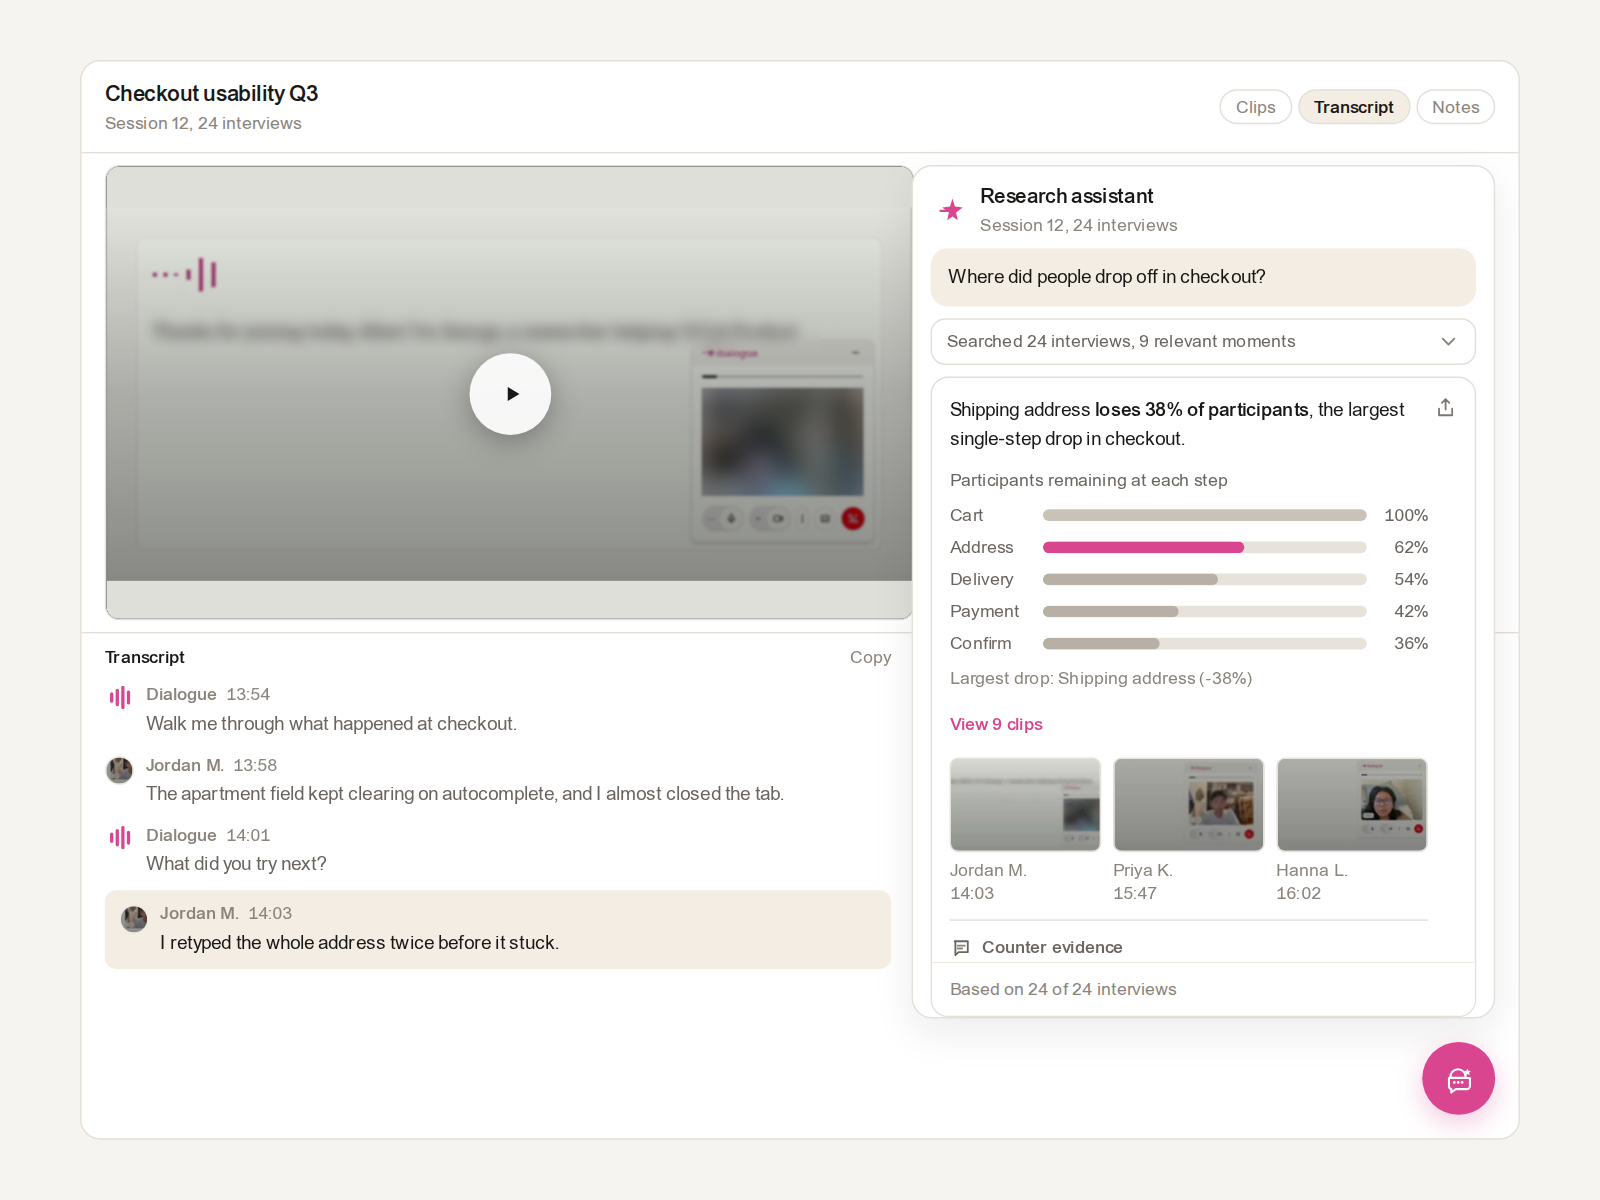
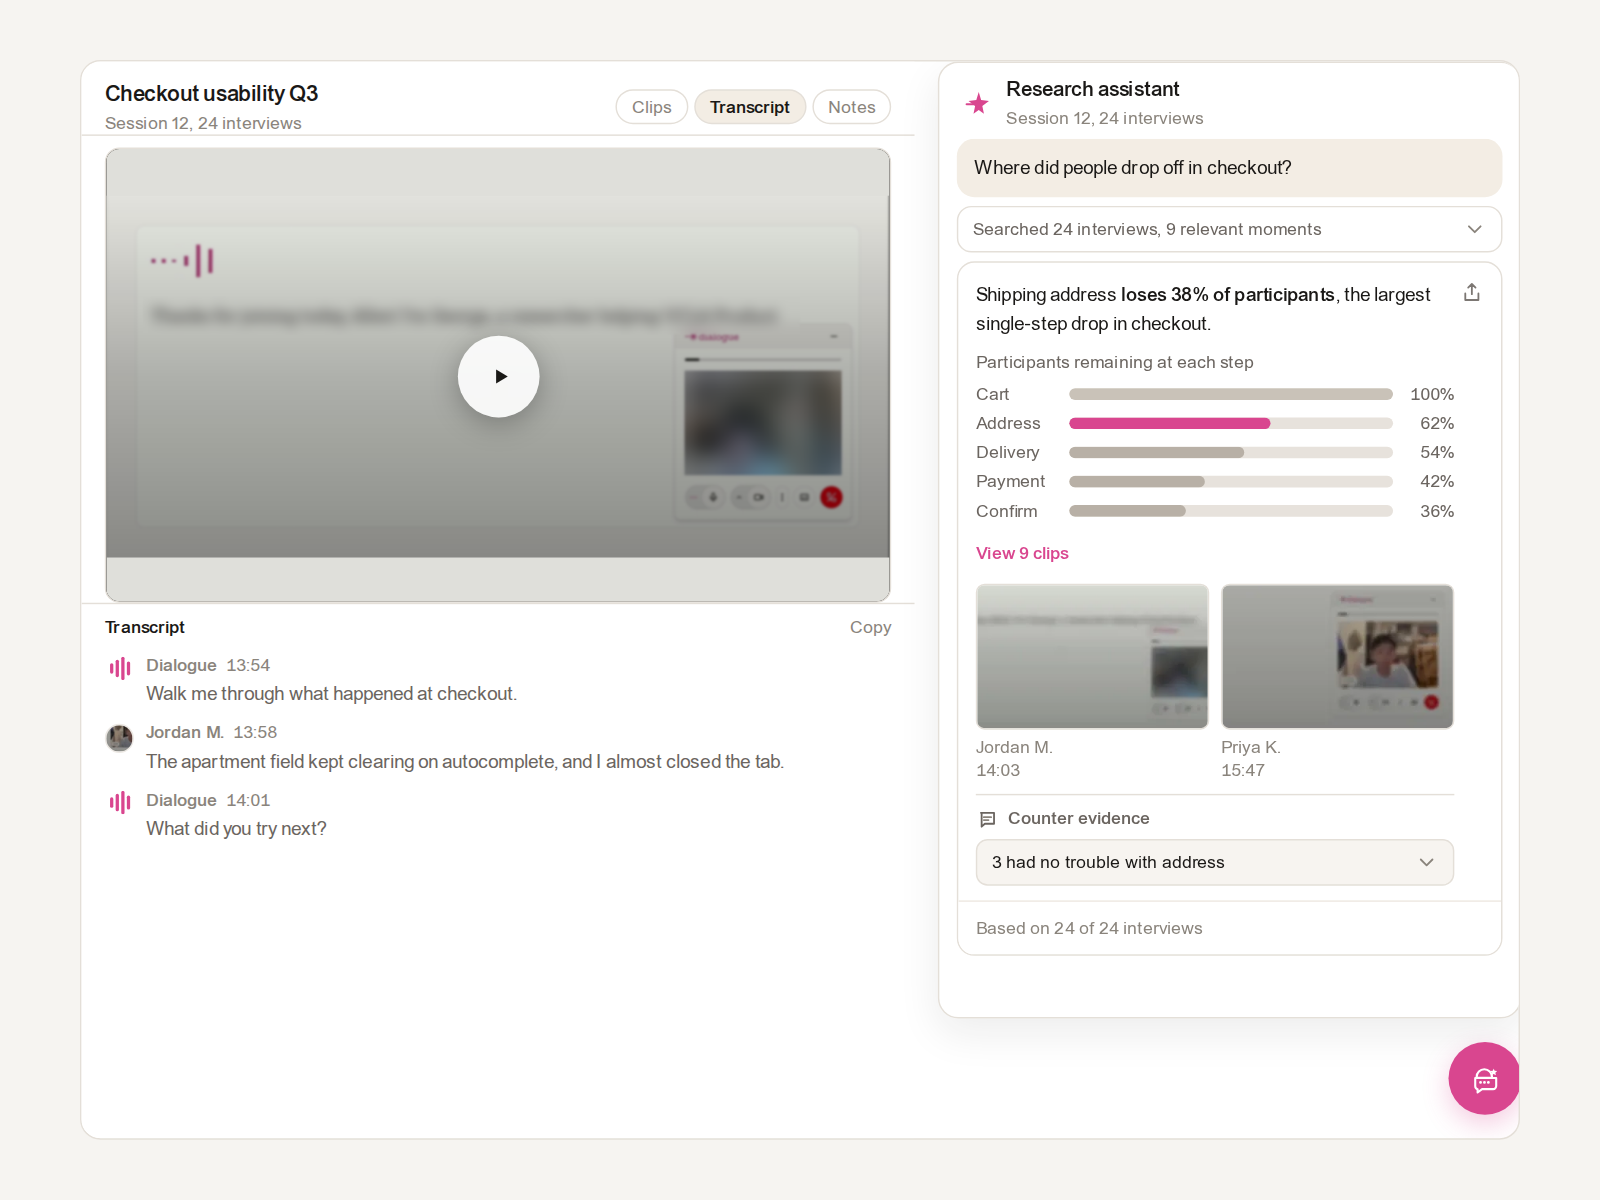
Fix floating placement: study width, panel gap, full evidence card
- Constrain floating study chrome to 571px (555px player + 16px pad); 16px gap before 400px panel flush-right
- Remove fillHeight clipping; tighten floating evidence spacing (2 clips, tight funnel)
- Match docked assistant padding; panel shadow on outer wrapper
- Trim floating transcript to 3 lines; capture script --only flag
- Re-capture section-6 only (section-6b unchanged)

Changed region(s): [[0.0625, 0.0617, 0.9375, 0.8325], [0.875, 0.8633, 0.9688, 0.9558]]

diff --git a/components/dialogue/graphics/EvidenceAnswerCard.tsx b/components/dialogue/graphics/EvidenceAnswerCard.tsx
@@ -18,13 +18,14 @@ const PAD = PLACEMENT_GRID_PAD_X - 4;
 
 export function EvidenceAnswerCard({
   compact = false,
-  fillHeight = false,
+  floating = false,
 }: {
   compact?: boolean;
-  fillHeight?: boolean;
+  floating?: boolean;
 }) {
   const inset = compact ? PLACEMENT_GRID_PAD_X - 4 : PAD;
   const copyIconInset = inset;
+  const blockGap = floating ? PLACEMENT_SPACE_1 : PLACEMENT_SPACE_1 + 2;
   return (
     <div
       style={{
@@ -34,10 +35,6 @@ export function EvidenceAnswerCard({
         background: DIALOGUE_GRAPHICS_COLORS.surface,
         overflow: "hidden",
         fontFamily: DIALOGUE_GRAPHICS_FONT,
-        height: fillHeight ? "100%" : undefined,
-        display: fillHeight ? "flex" : undefined,
-        flexDirection: fillHeight ? "column" : undefined,
-        minHeight: fillHeight ? 0 : undefined,
       }}
     >
       <div
@@ -61,16 +58,13 @@ export function EvidenceAnswerCard({
       <div
         style={{
           padding: inset,
-          paddingBottom: PLACEMENT_SPACE_1 + 4,
+          paddingBottom: floating ? PLACEMENT_SPACE_1 + 2 : PLACEMENT_SPACE_1 + 4,
           paddingRight: inset + PLACEMENT_ICON_SIZE + 4,
-          flex: fillHeight ? 1 : undefined,
-          minHeight: fillHeight ? 0 : undefined,
-          overflow: fillHeight ? "hidden" : undefined,
         }}
       >
         <p
           style={{
-            margin: `0 0 ${PLACEMENT_SPACE_1 + 2}px`,
+            margin: `0 0 ${blockGap}px`,
             ...placementType.body,
             fontWeight: 400,
             color: DIALOGUE_GRAPHICS_COLORS.ink,
@@ -80,8 +74,8 @@ export function EvidenceAnswerCard({
           <span style={{ fontWeight: 500 }}>loses 38% of participants</span>, the largest single-step
           drop in checkout.
         </p>
-        <CheckoutFunnelChart compact={compact} />
-        <div style={{ marginTop: PLACEMENT_SPACE_1 + 2 }}>
+        <CheckoutFunnelChart compact={compact} tight={floating} />
+        <div style={{ marginTop: blockGap }}>
           <button
             type="button"
             style={{
@@ -97,10 +91,10 @@ export function EvidenceAnswerCard({
             View 9 clips
           </button>
         </div>
-        <div style={{ marginTop: PLACEMENT_SPACE_1 + 2 }}>
-          <ClipThumbnailRow compact={compact} max={3} />
+        <div style={{ marginTop: blockGap }}>
+          <ClipThumbnailRow compact={compact} max={floating ? 2 : 3} />
         </div>
-        <CounterEvidenceSection compact={compact} />
+        <CounterEvidenceSection compact={compact} tight={floating} />
       </div>
       <DerivedEvidenceLabel>Based on 24 of 24 interviews</DerivedEvidenceLabel>
     </div>

diff --git a/components/dialogue/DialoguePlacementScene.tsx b/components/dialogue/DialoguePlacementScene.tsx
@@ -7,6 +7,7 @@ import {
   PLACEMENT_FLOATING_EDGE,
   PLACEMENT_FLOATING_LAUNCHER_SIZE,
   PLACEMENT_FLOATING_LAUNCHER_GAP,
+  PLACEMENT_FLOATING_PANEL_LEFT,
   PLACEMENT_FLOATING_PANEL_WIDTH,
   type PlacementVariant,
 } from "@/lib/caseStudies/dialoguePlacementExport";
@@ -62,11 +63,11 @@ function PlacementFrame({ variant }: { variant: PlacementVariant }) {
         background: DIALOGUE_GRAPHICS_COLORS.surface,
       }}
     >
-      <DialogueStudyHostPage reserveRightForFloatingChat />
+      <DialogueStudyHostPage reserveRightForFloatingChat={true} />
       <div
         style={{
           position: "absolute",
-          right: PLACEMENT_FLOATING_EDGE,
+          left: PLACEMENT_FLOATING_PANEL_LEFT,
           top: PLACEMENT_FLOATING_CHAT_TOP,
           bottom: PLACEMENT_FLOATING_EDGE,
           width: PLACEMENT_FLOATING_PANEL_WIDTH,
@@ -85,14 +86,25 @@ function PlacementFrame({ variant }: { variant: PlacementVariant }) {
             display: "flex",
             flexDirection: "column",
             borderRadius: 14,
-            border: `1px solid ${DIALOGUE_GRAPHICS_COLORS.border}`,
-            background: DIALOGUE_GRAPHICS_COLORS.surface,
             boxShadow: "0 10px 28px rgba(26, 24, 22, 0.08)",
-            overflow: "hidden",
             pointerEvents: "auto",
           }}
         >
-          <DialogueResearchAssistantPanel compact floating />
+          <div
+            style={{
+              flex: 1,
+              minHeight: 0,
+              width: "100%",
+              display: "flex",
+              flexDirection: "column",
+              borderRadius: 14,
+              border: `1px solid ${DIALOGUE_GRAPHICS_COLORS.border}`,
+              background: DIALOGUE_GRAPHICS_COLORS.surface,
+              overflow: "hidden",
+            }}
+          >
+            <DialogueResearchAssistantPanel compact floating />
+          </div>
         </div>
         <div
           style={{

diff --git a/components/dialogue/graphics/CheckoutFunnelChart.tsx b/components/dialogue/graphics/CheckoutFunnelChart.tsx
@@ -10,10 +10,17 @@ const STEPS = [
   { label: "Confirm", pct: 36, tone: "muted" as const },
 ];
 
-export function CheckoutFunnelChart({ compact = false }: { compact?: boolean }) {
+export function CheckoutFunnelChart({
+  compact = false,
+  tight = false,
+}: {
+  compact?: boolean;
+  tight?: boolean;
+}) {
   const labelW = compact ? 56 : 62;
   const barH = 8;
-  const rowGap = compact ? 6 : PLACEMENT_SPACE_1 - 1;
+  const rowGap = tight ? 4 : compact ? 6 : PLACEMENT_SPACE_1 - 1;
+  const captionMargin = tight ? PLACEMENT_SPACE_1 - 2 : PLACEMENT_SPACE_1;
 
   return (
     <div data-placement-crop="funnel" style={{ fontFamily: DIALOGUE_GRAPHICS_FONT }}>
@@ -21,7 +28,7 @@ export function CheckoutFunnelChart({ compact = false }: { compact?: boolean }) 
         style={{
           ...placementType.labelRegular,
           color: DIALOGUE_GRAPHICS_COLORS.inkMuted,
-          marginBottom: PLACEMENT_SPACE_1,
+          marginBottom: captionMargin,
           whiteSpace: "nowrap",
         }}
       >
@@ -78,16 +85,18 @@ export function CheckoutFunnelChart({ compact = false }: { compact?: boolean }) 
           </div>
         ))}
       </div>
-      <div
-        style={{
-          marginTop: PLACEMENT_SPACE_1,
-          ...placementType.labelRegular,
-          color: DIALOGUE_GRAPHICS_COLORS.inkSoft,
-          whiteSpace: "nowrap",
-        }}
-      >
-        Largest drop: Shipping address (-38%)
-      </div>
+      {!tight && (
+        <div
+          style={{
+            marginTop: PLACEMENT_SPACE_1,
+            ...placementType.labelRegular,
+            color: DIALOGUE_GRAPHICS_COLORS.inkSoft,
+            whiteSpace: "nowrap",
+          }}
+        >
+          Largest drop: Shipping address (-38%)
+        </div>
+      )}
     </div>
   );
 }

diff --git a/components/dialogue/DialogueResearchAssistantPanel.tsx b/components/dialogue/DialogueResearchAssistantPanel.tsx
@@ -35,7 +35,9 @@ export function DialogueResearchAssistantPanel({
       <header
         data-placement-crop="assistant-top"
         style={{
-          padding: `${PLACEMENT_SPACE_1 + 4}px ${CARD_PAD}px ${PLACEMENT_SPACE_1}px`,
+          padding: floating
+            ? `${PLACEMENT_SPACE_1 + 2}px ${CARD_PAD}px ${PLACEMENT_SPACE_1 - 2}px`
+            : `${PLACEMENT_SPACE_1 + 4}px ${CARD_PAD}px ${PLACEMENT_SPACE_1}px`,
           flexShrink: 0,
         }}
       >
@@ -56,11 +58,11 @@ export function DialogueResearchAssistantPanel({
         style={{
           flex: fillColumn ? 1 : undefined,
           minHeight: fillColumn ? 0 : undefined,
-          padding: `0 ${CARD_PAD - 4}px ${floating ? 0 : CARD_PAD - 4}px`,
+          padding: `0 ${CARD_PAD - 4}px ${CARD_PAD - 4}px`,
           display: "flex",
           flexDirection: "column",
-          gap: PLACEMENT_SPACE_1,
-          overflow: floating ? "hidden" : fillColumn ? "auto" : "hidden",
+          gap: floating ? PLACEMENT_SPACE_1 - 2 : PLACEMENT_SPACE_1,
+          overflow: fillColumn ? "auto" : "hidden",
         }}
       >
         <div
@@ -95,8 +97,8 @@ export function DialogueResearchAssistantPanel({
           <ChevronDownIcon size={PLACEMENT_ICON_SIZE} />
         </div>
 
-        <div style={{ flex: floating ? 1 : undefined, flexShrink: floating ? undefined : 0, minHeight: floating ? 0 : undefined }}>
-          <EvidenceAnswerCard compact={compact} fillHeight={floating} />
+        <div style={{ flexShrink: 0 }}>
+          <EvidenceAnswerCard compact={compact} floating={floating} />
         </div>
       </div>
     </div>

diff --git a/components/dialogue/DialogueStudyHostPage.tsx b/components/dialogue/DialogueStudyHostPage.tsx
@@ -1,3 +1,4 @@
+import { PLACEMENT_FLOATING_STUDY_MAX_WIDTH } from "@/lib/caseStudies/dialoguePlacementExport";
 import { DIALOGUE_GRAPHICS_COLORS, DIALOGUE_GRAPHICS_FONT } from "@/lib/caseStudies/dialogueGraphicsTheme";
 import {
   PLACEMENT_GRID_PAD_X,
@@ -16,11 +17,16 @@ export function DialogueStudyHostPage({
 }: {
   reserveRightForFloatingChat?: boolean;
 }) {
+  const studyChromeWidth = reserveRightForFloatingChat ? PLACEMENT_FLOATING_STUDY_MAX_WIDTH : undefined;
+  const edgePadX = reserveRightForFloatingChat ? `${PLACEMENT_GRID_PAD_X}px 0` : `${PLACEMENT_GRID_PAD_X}px`;
+
   return (
     <div
       style={{
-        flex: 1,
+        flex: reserveRightForFloatingChat ? "0 0 auto" : 1,
         minWidth: 0,
+        width: studyChromeWidth ?? "100%",
+        maxWidth: studyChromeWidth ?? undefined,
         height: "100%",
         display: "flex",
         flexDirection: "column",
@@ -34,7 +40,7 @@ export function DialogueStudyHostPage({
           alignItems: "center",
           justifyContent: "space-between",
           gap: PLACEMENT_SPACE_1,
-          padding: `${PLACEMENT_GRID_PAD_Y}px ${PLACEMENT_GRID_PAD_X}px`,
+          padding: `${PLACEMENT_GRID_PAD_Y}px ${edgePadX}`,
           borderBottom: `1px solid ${DIALOGUE_GRAPHICS_COLORS.border}`,
         }}
       >
@@ -72,7 +78,7 @@ export function DialogueStudyHostPage({
 
       <div
         style={{
-          padding: `${PLACEMENT_SPACE_1}px ${PLACEMENT_GRID_PAD_X}px`,
+          padding: `${PLACEMENT_SPACE_1}px ${edgePadX}`,
           borderBottom: `1px solid ${DIALOGUE_GRAPHICS_COLORS.border}`,
         }}
       >

diff --git a/lib/caseStudies/dialoguePlacementExport.ts b/lib/caseStudies/dialoguePlacementExport.ts
@@ -51,9 +51,20 @@ export const PLACEMENT_FLOATING_LAUNCHER_SIZE = 50;
 /** Gap between floating panel bottom and launcher (also window bottom inset). */
 export const PLACEMENT_FLOATING_LAUNCHER_GAP = 16;
 export const PLACEMENT_FLOATING_EDGE = 16;
-/** Overlap the player on the right; panel + launcher stack below (sync with studyPlayerBlockTopY). */
-export const PLACEMENT_FLOATING_CHAT_TOP = 62 + 1 + 8;
+/** Clear space between study chrome (player right edge) and floating panel. */
+export const PLACEMENT_FLOATING_PLAYER_GAP = 16;
+/**
+ * Floating study chrome width (matches docked player: 16px pad + 555px body = 571).
+ * Panel sits at +16px gap, flush to layout right edge (400px wide).
+ */
+export const PLACEMENT_FLOATING_STUDY_MAX_WIDTH =
+  PLACEMENT_LAYOUT_WIDTH - PLACEMENT_FLOATING_PANEL_WIDTH - PLACEMENT_FLOATING_PLAYER_GAP;
+export const PLACEMENT_FLOATING_PANEL_LEFT =
+  PLACEMENT_FLOATING_STUDY_MAX_WIDTH + PLACEMENT_FLOATING_PLAYER_GAP;
+/** Full-height floating panel (launcher stack anchored to bottom inset). */
+export const PLACEMENT_FLOATING_CHAT_TOP = 0;
 
-/** Keep Transcript + Copy left of the floating assistant panel (study padding included). */
+/** Transcript column inside floating study chrome (horizontal padding included). */
+/** Inner transcript column (floating study uses left pad only). */
 export const PLACEMENT_TRANSCRIPT_MAX_WIDTH_FLOATING =
-  PLACEMENT_LAYOUT_WIDTH - PLACEMENT_FLOATING_PANEL_WIDTH - PLACEMENT_FLOATING_EDGE * 2 - 16;
+  PLACEMENT_FLOATING_STUDY_MAX_WIDTH - STUDY_PLAYER_PAD_X;

diff --git a/components/dialogue/DialogueStudyTranscript.tsx b/components/dialogue/DialogueStudyTranscript.tsx
@@ -76,7 +76,9 @@ export function DialogueStudyTranscript({
         flex: 1,
         minHeight: 0,
         overflow: "hidden",
-        padding: `${PLACEMENT_SPACE_1}px ${PLACEMENT_GRID_PAD_X}px ${PLACEMENT_GRID_PAD_X}px`,
+        padding: reserveRightForFloatingChat
+          ? `${PLACEMENT_SPACE_1}px ${PLACEMENT_GRID_PAD_X}px 0`
+          : `${PLACEMENT_SPACE_1}px ${PLACEMENT_GRID_PAD_X}px ${PLACEMENT_GRID_PAD_X}px`,
         fontFamily: DIALOGUE_GRAPHICS_FONT,
       }}
     >
@@ -109,8 +111,8 @@ export function DialogueStudyTranscript({
             Copy
           </span>
         </div>
-        <div style={{ display: "flex", flexDirection: "column", gap: 6 }}>
-          {LINES.map((line) => (
+        <div style={{ display: "flex", flexDirection: "column", gap: reserveRightForFloatingChat ? 4 : 6 }}>
+          {(reserveRightForFloatingChat ? LINES.slice(0, 3) : LINES).map((line) => (
             <div
               key={`${line.speaker}-${line.time}`}
               style={{

diff --git a/components/dialogue/graphics/CounterEvidenceSection.tsx b/components/dialogue/graphics/CounterEvidenceSection.tsx
@@ -7,13 +7,20 @@ import {
 } from "@/lib/caseStudies/dialoguePlacementTypography";
 import { ChevronDownIcon, CounterEvidenceIcon } from "./DialogueIcons";
 
-export function CounterEvidenceSection({ compact = false }: { compact?: boolean }) {
+export function CounterEvidenceSection({
+  compact = false,
+  tight = false,
+}: {
+  compact?: boolean;
+  tight?: boolean;
+}) {
+  const edgeGap = tight ? PLACEMENT_SPACE_1 : PLACEMENT_SPACE_1 + 2;
   return (
     <div
       style={{
         borderTop: `1px solid ${DIALOGUE_GRAPHICS_COLORS.border}`,
-        paddingTop: PLACEMENT_SPACE_1 + 2,
-        marginTop: PLACEMENT_SPACE_1 + 2,
+        paddingTop: edgeGap,
+        marginTop: edgeGap,
         fontFamily: DIALOGUE_GRAPHICS_FONT,
       }}
     >
